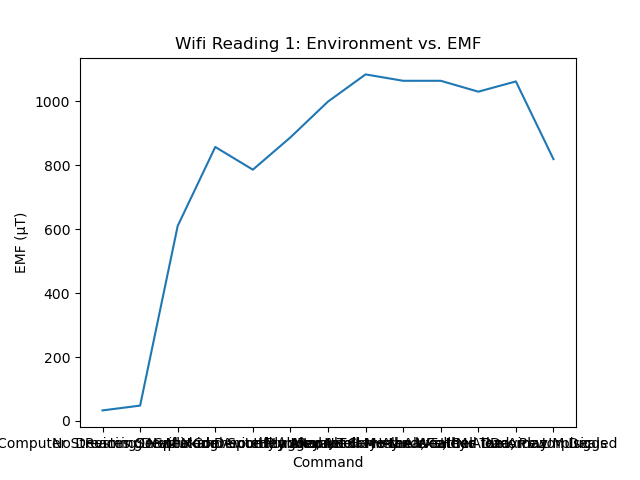
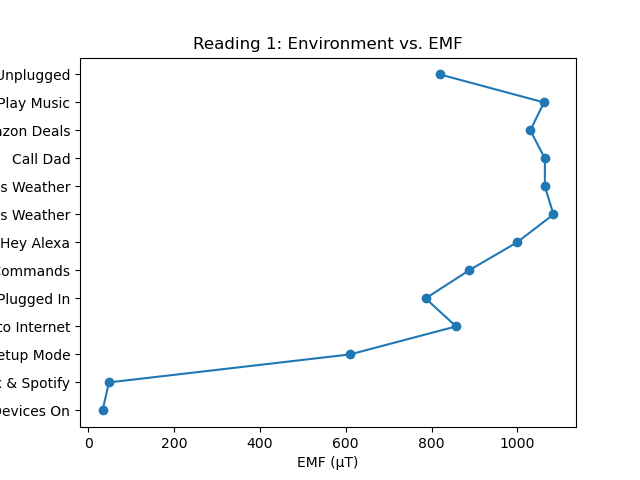
Added new plots and updated code
here we go!

diff --git a/reading_files.py b/reading_files.py
@@ -138,28 +138,83 @@ def emf_abby1(file_path):
     #Abby's EMF reading averages (3 readings taken each time) 
     #from a 7 story apartment building, 4 apartments on each floor on S Dorchester
     emf = [33, 48, 610, 857, 786, 887, 999, 1084, 1064, 1064, 1030, 1062, 819]
-    command = ["No Devices On", "TV and Computer Streaming Netflix and Spotify in Room", "Setup Mode","Resting Device Connected to Internet","Muted Device Plugged In", "Speaking Around Alexa, No Commands","Hey Alexa","Hey Alexa, Tell Me the Weather","Hey Alexa, Tell Me the Weather Tomorrow","Hey Alexa, Call Dad","Hey Alexa, Tell Me the Amazon Deals","Hey Alexa, Play Music", "Device Unplugged"]
+    command = ["No Devices On", "TV/Computer w/ Netflix & Spotify", "Setup Mode","Resting Device Connected to Internet","Muted Device Plugged In", "Speaking, No Commands","Hey Alexa","Today's Weather","Tomorrow's Weather","Call Dad","Amazon Deals","Play Music", "Device Unplugged"]
 
     #plotting environment vs. emf
-    plt.plot(command, emf)
-    plt.title('Wifi Reading 1: Environment vs. EMF')
-    plt.xlabel('Command')
-    plt.ylabel('EMF (μT)')
+    plt.plot(emf, command, 'o-')
+    plt.title('Reading 1: Environment vs. EMF')
+    plt.ylabel('Command')
+    plt.xlabel('EMF (μT)')
     fig_location = os.path.join(file_path, "Data_Plots/WifiReadingAbby1.png")
     plt.savefig(fig_location)
     plt.clf()
 
-def emf_christina1(file_path):
-    #Christina's EMF
-    emf = [31, 293, 687, 775, 715, 750, 775, 1026, 1020, 843, 1026, 1022, 975]
-    command = ["No Devices On", "TV and Computer Streaming Netflix and Spotify in Room", "Setup Mode","Resting Device Connected to Internet","Muted Device Plugged In", "Speaking Around Alexa, No Commands","Hey Alexa","Hey Alexa, Tell Me the Weather","Hey Alexa, Tell Me the Weather Tomorrow","Hey Alexa, Call Dad","Hey Alexa, Tell Me the Amazon Deals","Hey Alexa, Play Music", "Device Unplugged"]
+def emf_abby2(file_path):
+    #Abby's EMF reading averages (3 readings taken each time) 
+    #MAAD Lab (6 TVs streaming various things, computers, computer lab on other side of facility, many networked devices)
+    emf = [115, 790, 879, 858, 882, 1103, 1242, 1265, 1192, 1154, 1176, 761]
+    command = ["TV/Computer in room", "Setup Mode","Resting Device Connected to Internet","Muted Device Plugged In", "Speaking, No Commands","Hey Alexa","Today's Weather","Tomorrow's Weather","Call Dad","Amazon Deals","Play Music", "Device Unplugged"]
 
     #plotting environment vs. emf
-    plt.plot(command, emf)
-    plt.title('Wifi Reading 1: Environment vs. EMF')
+    plt.plot(emf, command, 'o-')
+    plt.title('Reading 2: Environment vs. EMF')
+    plt.ylabel('Command')
+    plt.xlabel('EMF (μT)')
+    plt.tight_layout()
+    fig_location = os.path.join(file_path, "Data_Plots/WifiReadingAbby2.png")
+    plt.savefig(fig_location)
+    plt.clf()
+
+
+def emf_christina1(file_path):
+    #Christina's EMF
+    #from a 3 story apartment building, 2 apartments on each floor on S Woodlawn
+    emf = [31, 687, 775, 715, 750, 775, 1026, 1020, 1026, 1022, 975]
+    command = ["No Devices On", "Setup Mode","Resting Device Connected to Internet","Muted Device Plugged In", "Speaking, No Commands","Hey Alexa","Today's Weather","Tomorrow's Weather","Amazon Deals","Play Music", "Device Unplugged"]
+
+    #plotting environment vs. emf
+    plt.plot(emf, command, 'o-')
+    plt.title('Reading 3: Environment vs. EMF')
+    plt.ylabel('Command')
+    plt.xlabel('EMF (μT)')
+    fig_location = os.path.join(file_path, "Data_Plots/WifiReadingChristina1.png")
+    plt.savefig(fig_location)
+    plt.clf()
+
+def emf_christina2(file_path):
+    #Christina's EMF
+    #from a 3 story apartment building, 2 apartments on each floor on S Woodlawn
+    emf = [31, 772, 324, 726, 725, 725, 722, 722, 727, 724, 120]
+    command = ["No Devices On", "Resting Device Connected to Internet","Muted Device Plugged In", "Speaking, No Commands","Hey Alexa","Today's Weather","Tomorrow's Weather","Call Dad", "Amazon Deals","Play Music", "Device Unplugged"]
+
+    #plotting environment vs. emf
+    plt.plot(emf, command, 'o-')
+    plt.title('Reading 4: Environment vs. EMF')
+    plt.ylabel('Command')
+    plt.xlabel('EMF (μT)')
+    fig_location = os.path.join(file_path, "Data_Plots/WifiReadingChristina2.png")
+    plt.savefig(fig_location)
+    plt.clf()
+
+def all_emf(file_path):
+    #all the emf values in one plot
+
+    ab1_emf = [33, 857, 786, 887, 999, 1084, 1064, 1030, 1062, 819]
+    ab1_command = ["No Devices On", "Resting Device Connected to Internet","Muted Device Plugged In", "Speaking, No Commands","Hey Alexa","Today's Weather","Tomorrow's Weather","Amazon Deals","Play Music", "Device Unplugged"]
+    ab2_emf = [0, 879, 858, 882, 1103, 1242, 1265, 1154, 1176, 761]
+    ch1_emf = [31, 687, 715, 750, 775, 1026, 1020, 1026, 1022, 975]
+    ch2_emf = [31, 772, 324, 726, 725, 725, 722, 727, 724, 120]
+
+    plt.plot(ab1_command, ab1_emf, 'ro-')
+    plt.plot(ab1_command, ab2_emf, 'bo-')
+    plt.plot(ab1_command, ch1_emf, 'go-')
+    plt.plot(ab1_command, ch2_emf, 'yo-')
+    plt.title('All Readings: Environment vs. EMF')
     plt.xlabel('Command')
     plt.ylabel('EMF (μT)')
-    fig_location = os.path.join(file_path, "Data_Plots/WifiReadingChristina1.png")
+    plt.xticks(rotation = 65)
+    plt.tight_layout()
+    fig_location = os.path.join(file_path, "Data_Plots/WifiReadingAll.png")
     plt.savefig(fig_location)
     plt.clf()
 
@@ -170,7 +225,10 @@ def main():
     bluetooth(file_path)
     location(file_path)
     emf_abby1(file_path)
+    emf_abby2(file_path)
     emf_christina1(file_path)
+    emf_christina2(file_path)
+    all_emf(file_path)
 
 if __name__ == "__main__":
     main()
